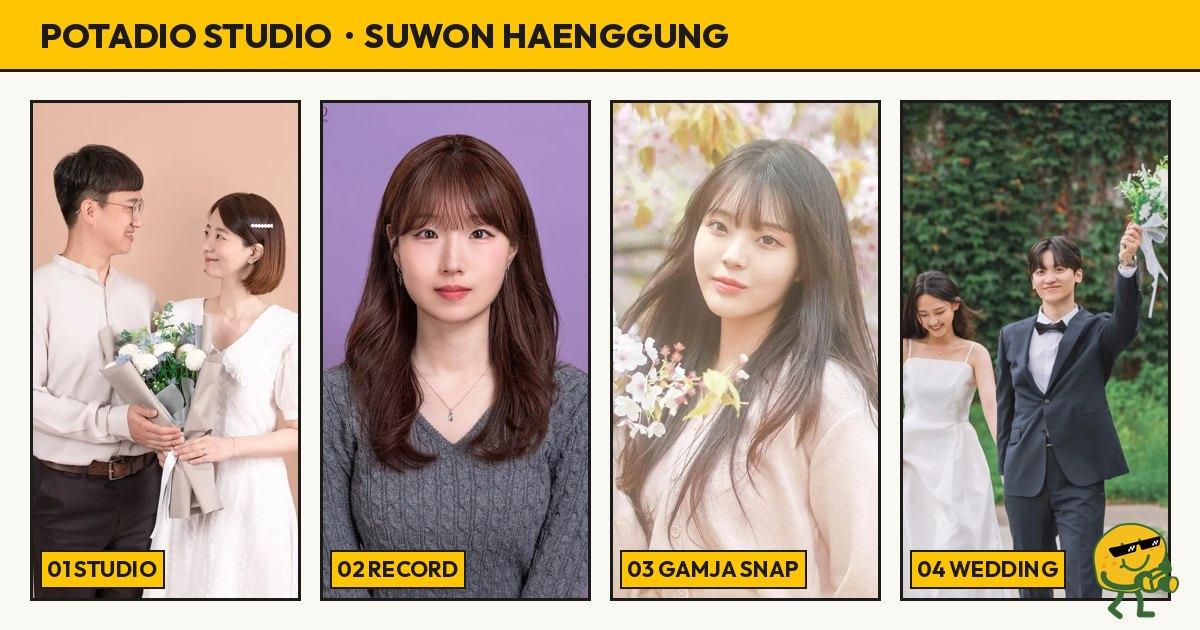
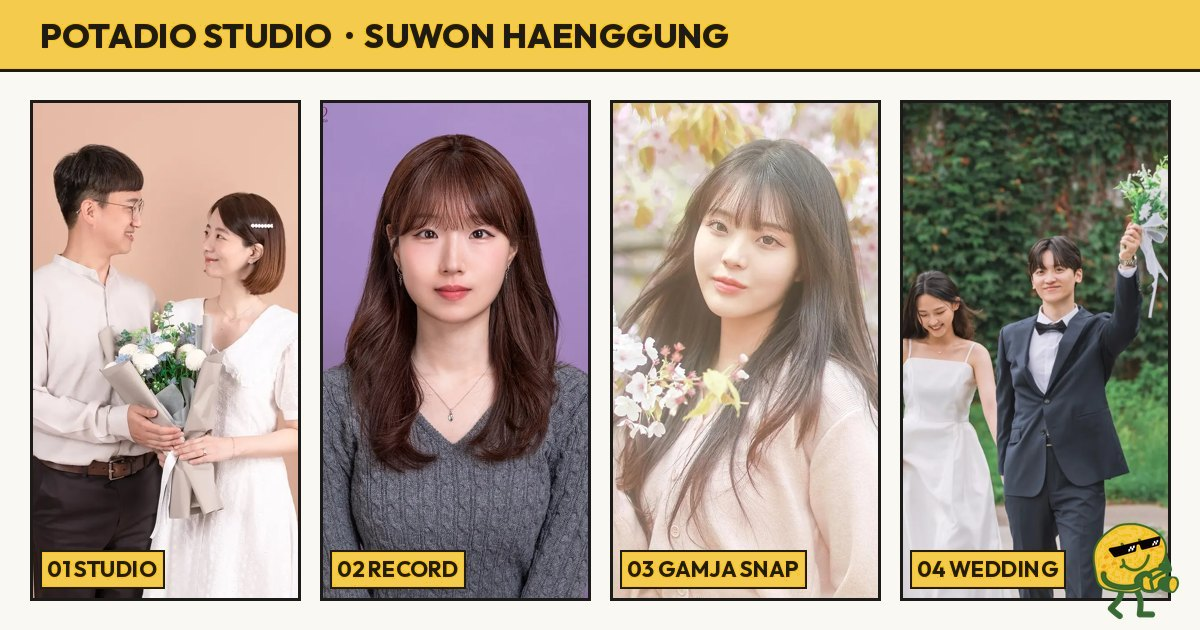
Add files via upload

diff --git a/index.html b/index.html
@@ -5,7 +5,7 @@
 <meta name="viewport" content="width=device-width, initial-scale=1.0" />
 <title>포테디오 POTADIO STUDIO | 수원 행궁동 증명사진 · 프로필 · 스냅 · 웨딩</title>
 <meta name="description" content="수원 행궁동 증명사진 & 프로필 사진관 포테디오. 포즈와 표정까지 1대1 맞춤 촬영, 고해상도 파일 기본 제공. 스튜디오 촬영, 컬러 배경지 기록사진, 감자스냅, 포테디 웨딩·본식 스냅까지." />
-<meta name="theme-color" content="#FFC502" />
+<meta name="theme-color" content="#F5CB4D" />
 
 <link rel="canonical" href="https://potadiostudio-sample.lgt3232.workers.dev/" />
 <meta property="og:type" content="website" />
@@ -62,7 +62,8 @@
   --ink:#1C1B19;          /* 종이색 위 16.4:1 */
   --soft:#5C5952;         /* 6.6:1 */
   --line:#E3DFD5;
-  --yellow:#FFC502;       /* 사장님 로고 원색 · 필름 박스 노랑 (위 글자는 먹색 12:1) */
+  --yellow:#F5CB4D;       /* v0.2.2 큰 면적용 · 로고 노랑에서 채도만 낮춤 (위 글자는 먹색 12.5:1) */
+  --brand:#FFC502;        /* 사장님 로고 원색 · 번호 태그 같은 작은 표시에만 */
   --butter:#FBEBC0;
   --pink:#FFD3DD; --lav:#B3A6E0; --sky:#B4D3E6; --sage:#C9D3B8;   /* 02 Record 배경지 실측 계열 */
   --bd:var(--butter);
@@ -107,7 +108,7 @@ h1,h2,h3,h4{ margin:0; }
 .brand b{ font-family:var(--en); font-weight:800; font-size:1.3rem; letter-spacing:.02em; }
 .nav{ display:flex; align-items:center; gap:clamp(14px,2.2vw,26px); font-family:var(--en); font-size:.9rem; font-weight:600; }
 .nav a:not(.btn){ color:var(--soft); transition:color .2s ease; }
-.nav a:not(.btn) i{ font-style:normal; color:var(--ink); background:var(--yellow); padding:0 4px; margin-right:5px; font-size:.75rem; }
+.nav a:not(.btn) i{ font-style:normal; color:var(--ink); background:var(--brand); padding:0 4px; margin-right:5px; font-size:.75rem; }
 .nav .btn{ padding:.55em 1em; font-size:.85rem; font-family:var(--ko); }
 @media (hover:hover){ .nav a:not(.btn):hover{ color:var(--ink); } }
 @media (max-width:960px){ .nav a:not(.btn){ display:none; } }
@@ -131,7 +132,7 @@ h1,h2,h3,h4{ margin:0; }
 .frm{ position:relative; display:block; border:1.5px solid transparent; border-radius:var(--r); transition:border-color .4s ease; }
 .frm img{ width:100%; aspect-ratio:4/5; object-fit:cover; border-radius:2px; }
 .frm .lab{ position:absolute; left:6px; bottom:6px; display:flex; align-items:center; gap:6px; background:var(--paper); border:1px solid var(--ink); padding:2px 7px; font-family:var(--en); font-weight:700; font-size:.78rem; }
-.frm .lab b{ background:var(--yellow); padding:0 4px; }
+.frm .lab b{ background:var(--brand); padding:0 4px; }
 .frm.on{ border-color:var(--ink); }
 .frm.on .lab{ background:var(--yellow); }
 .box .mascot{ position:absolute; right:-14px; bottom:-26px; width:62px; transform:rotate(6deg); }
@@ -154,7 +155,7 @@ h1,h2,h3,h4{ margin:0; }
 .facts{ list-style:none; margin:0; padding:0; display:grid; gap:0; border-top:1px solid var(--line); }
 .facts li{ display:grid; grid-template-columns:56px 1fr; padding:14px 0; border-bottom:1px solid var(--line); }
 .facts .n{ font-family:var(--en); font-weight:800; }
-.facts .n i{ font-style:normal; background:var(--yellow); padding:0 5px; }
+.facts .n i{ font-style:normal; background:var(--brand); padding:0 5px; }
 .facts b{ display:block; }
 .facts span{ font-size:.92rem; color:var(--soft); }
 .subt{ margin:clamp(40px,6vw,64px) 0 16px; display:flex; justify-content:space-between; align-items:end; gap:12px; flex-wrap:wrap; }
@@ -230,7 +231,7 @@ h1,h2,h3,h4{ margin:0; }
 .info{ margin:0; border-top:1.5px solid var(--ink); }
 .info .row{ display:grid; grid-template-columns:92px 1fr; gap:12px; padding:14px 0; border-bottom:1px solid var(--line); align-items:baseline; }
 .info dt{ font-weight:800; }
-.info dt i{ font-style:normal; background:var(--yellow); padding:0 5px; }
+.info dt i{ font-style:normal; background:var(--brand); padding:0 5px; }
 .info dd{ margin:0; }
 .info dd small{ display:block; color:var(--soft); font-size:.88rem; margin-top:2px; }
 .visit .btns{ margin-top:20px; }
